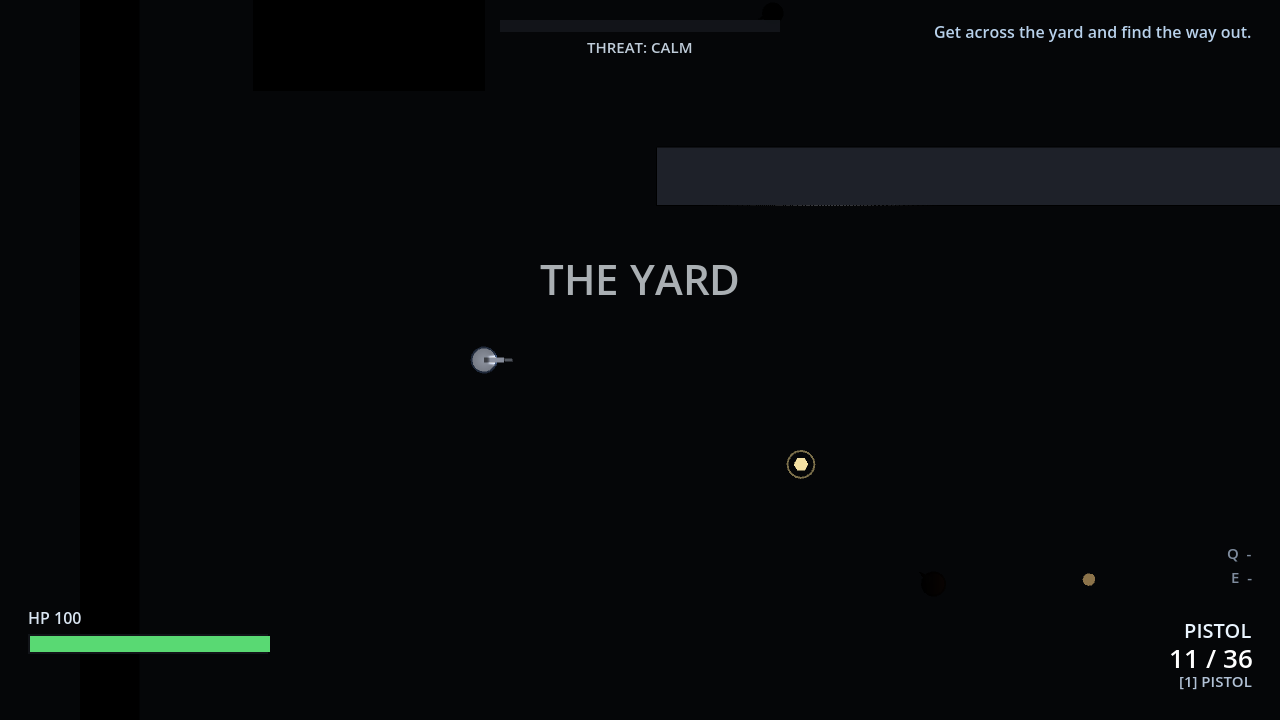
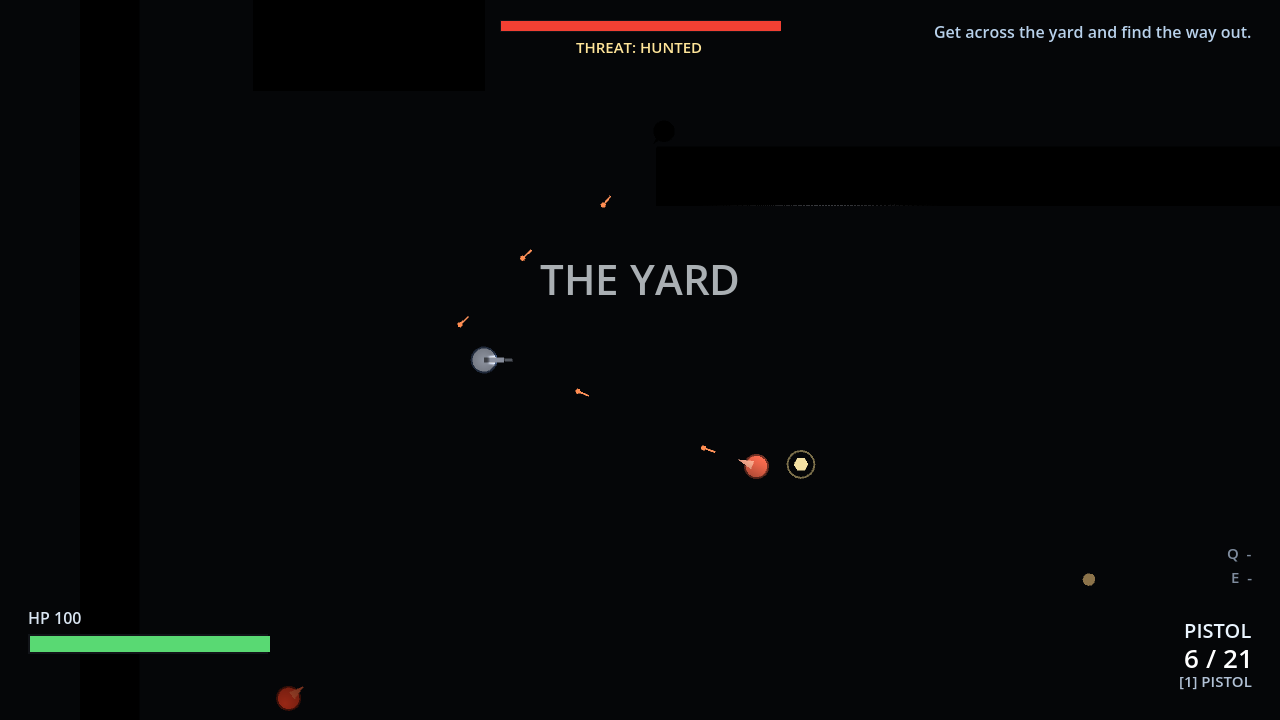
reload fix

diff --git a/docs/DESIGN_NOTES.md b/docs/DESIGN_NOTES.md
@@ -111,6 +111,13 @@ Also worth knowing:
   reason the level loader defers `change_scene_to_file`.
 - `LightOccluder2D` shadows work with all-default masks, but **only if the
   occluder exists**, which is exactly why `Wall` generates it.
+- **A reload timer belongs to the weapon in hand, not to the holder.** `WeaponHolder` keeps one
+  `_reload_left`, but a weapon pickup swaps the weapon under it (`add_weapon` → auto-equip), which
+  left the timer running: the HUD drew a reload bar for the *new* gun (its `reload_progress()` even
+  divided by the new weapon's reload time), and `_finish_reload` then filled that new gun with rounds
+  it never loaded. Anything that changes the held weapon now clears the timer — `select`,
+  `add_weapon`, `set_loadout`, `deserialize`. `--probe=reload_switch` reloads, picks up a weapon
+  mid-reload, and checks both that the bar stops and that an uninterrupted reload still finishes.
 - Synthetic input cannot reliably fake a "just pressed" across the physics-frame
   boundary, so scripted semi-auto fire drives the weapon directly. Real input is
   unaffected.
